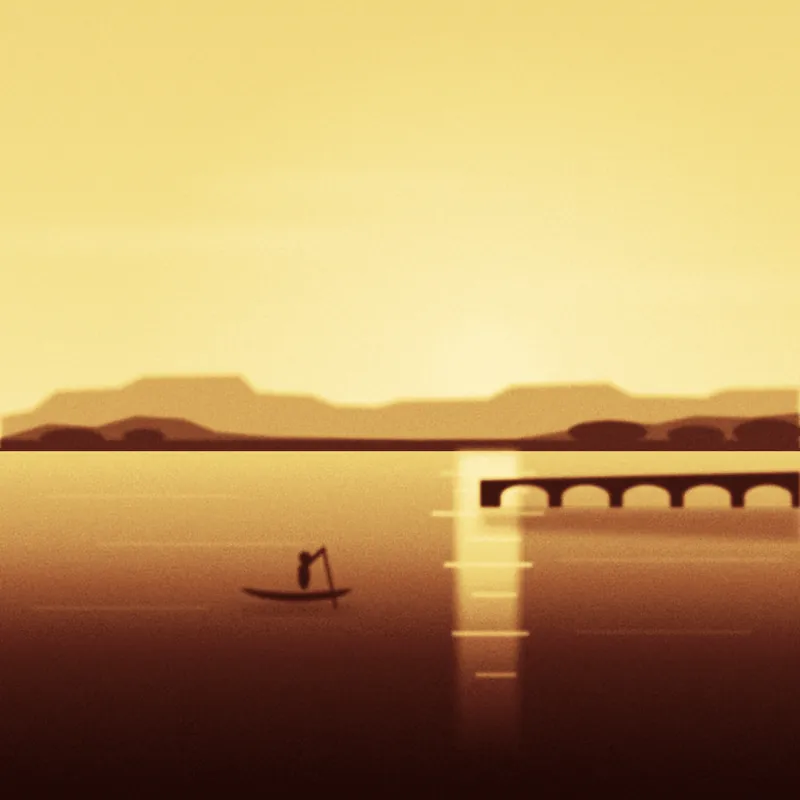
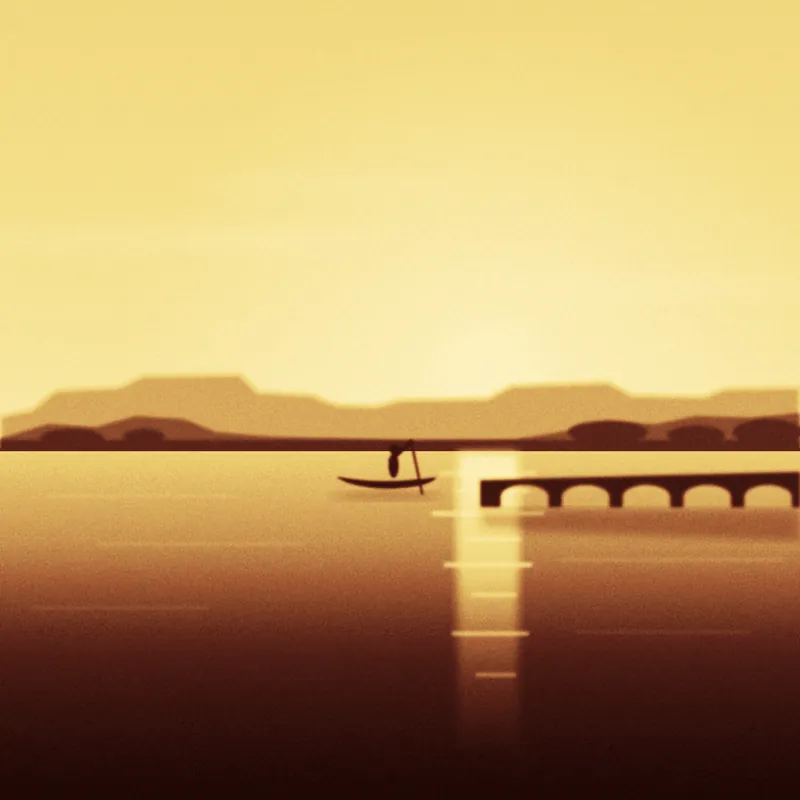
fix(images): move tankwa boat clear of the sunrise caption
Places the boat near the centre of the water, where the reference's swimmer
sits, so it no longer collides with the 'Building bridges.' caption.

Claude-Session: https://claude.ai/code/session_014cpMmawANmxdk2nn1kNgQ2

Changed region(s): [[0.4062, 0.5625, 0.5625, 0.625], [0.3125, 0.6875, 0.4375, 0.7812]]

diff --git a/scripts/scenes/first-light.html b/scripts/scenes/first-light.html
@@ -91,14 +91,14 @@ svg{display:block}
   </g>
 
   <!-- tankwa with paddler -->
-  <g fill="#1c1c1c" filter="url(#b2)">
+  <g fill="#1c1c1c" filter="url(#b2)" transform="translate(150 -66) scale(.9)">
     <path d="M300 735 Q360 748 440 736 Q430 750 372 752 Q318 750 300 735Z"/>
     <ellipse cx="380" cy="720" rx="7" ry="17"/>
     <circle cx="381" cy="697" r="7"/>
     <path d="M372 712 L404 684 L407 687 L377 716Z"/>
     <path d="M404 684 L420 760" stroke="#1c1c1c" stroke-width="3"/>
   </g>
-  <g fill="#1c1c1c" opacity=".25" filter="url(#b6)"><ellipse cx="372" cy="762" rx="76" ry="7"/></g>
+  <g fill="#1c1c1c" opacity=".25" filter="url(#b6)" transform="translate(150 -66) scale(.9)"><ellipse cx="372" cy="762" rx="76" ry="7"/></g>
   <!-- bottom vignette for legible caption -->
   <linearGradient id="vig" x1="0" y1="0" x2="0" y2="1"><stop offset="0" stop-color="#000" stop-opacity="0"/><stop offset="1" stop-color="#000" stop-opacity=".55"/></linearGradient>
   <rect y="700" width="1000" height="300" fill="url(#vig)"/>
